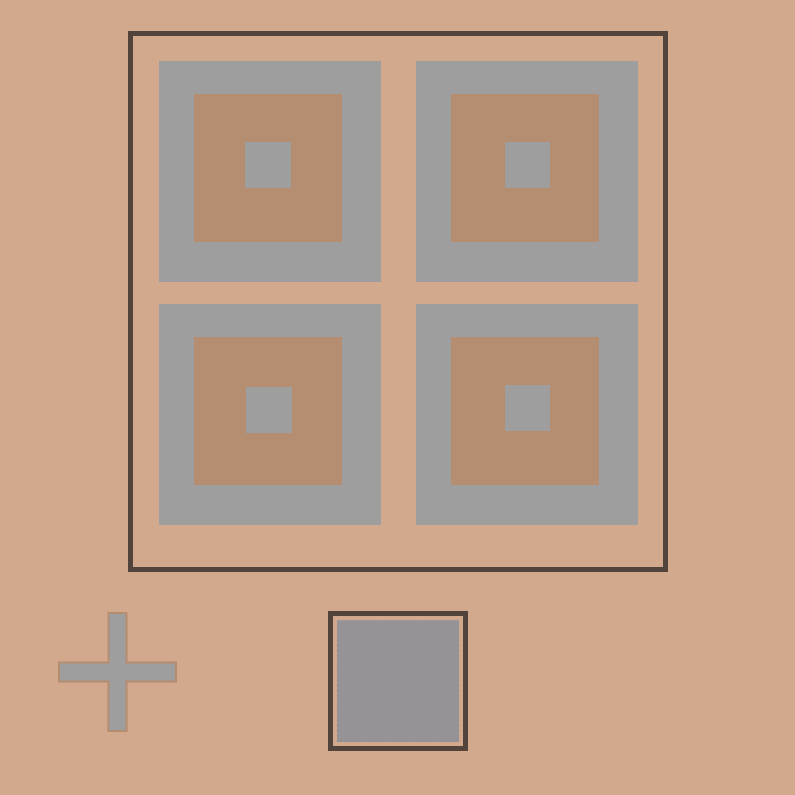
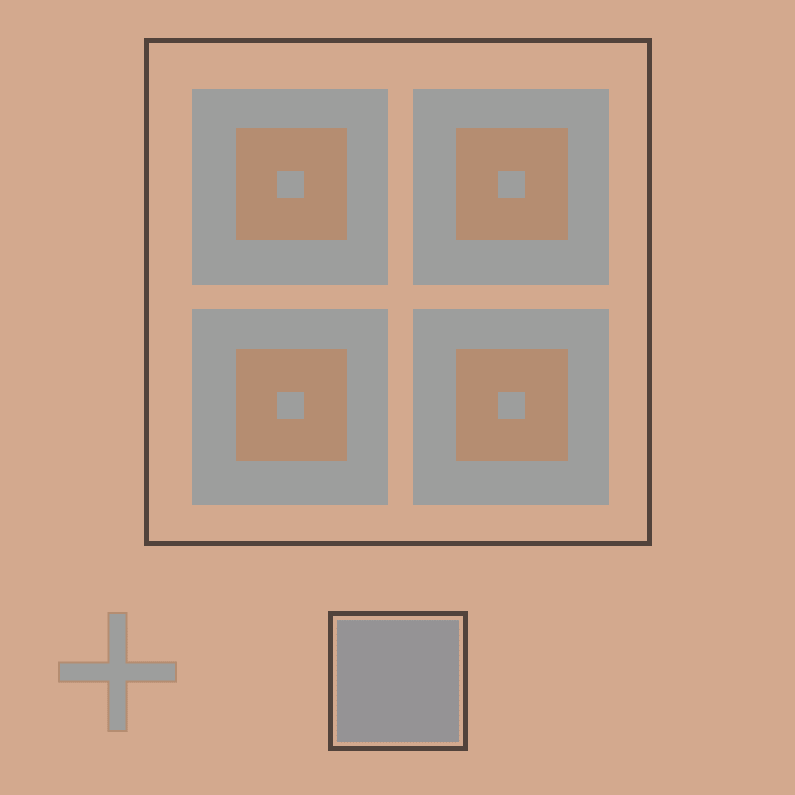
UI위치 조정 미니맵 조정

Changed region(s): [[0.1509, 0.0302, 0.8453, 0.7245]]

diff --git a/Assets/BottomUIPositionAuto.cs b/Assets/BottomUIPositionAuto.cs
@@ -1,0 +1,17 @@
+using System.Collections;
+using System.Collections.Generic;
+using UnityEngine;
+
+public class BottomUIPositionAuto : MonoBehaviour
+{
+    [SerializeField]
+    GameObject StatusPanel;
+    [SerializeField]
+    GameObject MiniMap;
+    void Start()
+    {
+        StatusPanel.GetComponent<RectTransform>().anchoredPosition = new Vector3(0, 150, 0);
+        MiniMap.GetComponent<RectTransform>().anchoredPosition = new Vector3(-210, 210, 0);
+        Debug.Log(MiniMap.GetComponent<RectTransform>().anchoredPosition);
+    }
+}

diff --git a/Assets/Scripts/UI/MiniMap.cs b/Assets/Scripts/UI/MiniMap.cs
@@ -42,7 +42,7 @@ public class MiniMap : MonoBehaviour , IPointerClickHandler, IDragHandler
             if (!RectTransformUtility.ScreenPointToLocalPointInRectangle(GetComponent<RectTransform>(),
    eventData.position, eventData.pressEventCamera, out Vector2 localCursor))
                 return;
-            _unitController.MoveSelectedUnits(new Vector3(localCursor.x * 0.77f, 0, localCursor.y * 0.77f));
+            _unitController.MoveSelectedUnits(new Vector3(localCursor.x * 0.77f, 0, localCursor.y * 0.77f+10));
         }
     }
 

diff --git a/Assets/Scripts/MouseDetector.cs b/Assets/Scripts/MouseDetector.cs
@@ -9,7 +9,6 @@ public class MouseDetector : MonoBehaviour
     {
         _tr = GetComponent<Transform>();
         Cursor.lockState = CursorLockMode.Confined;
-        Debug.Log(Camera.main.gameObject.transform.position);
     }
     void FixedUpdate()
     {
